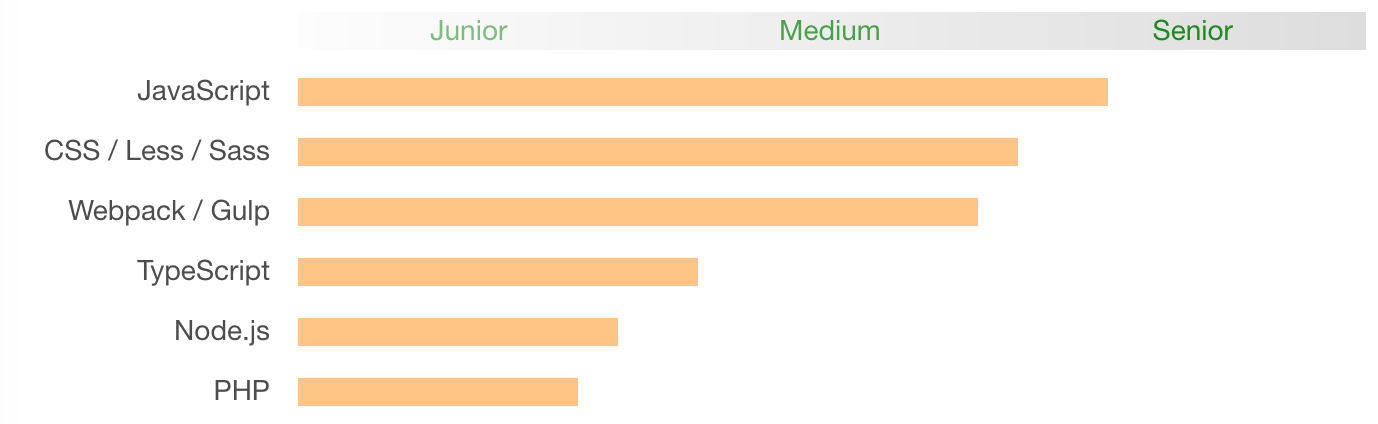
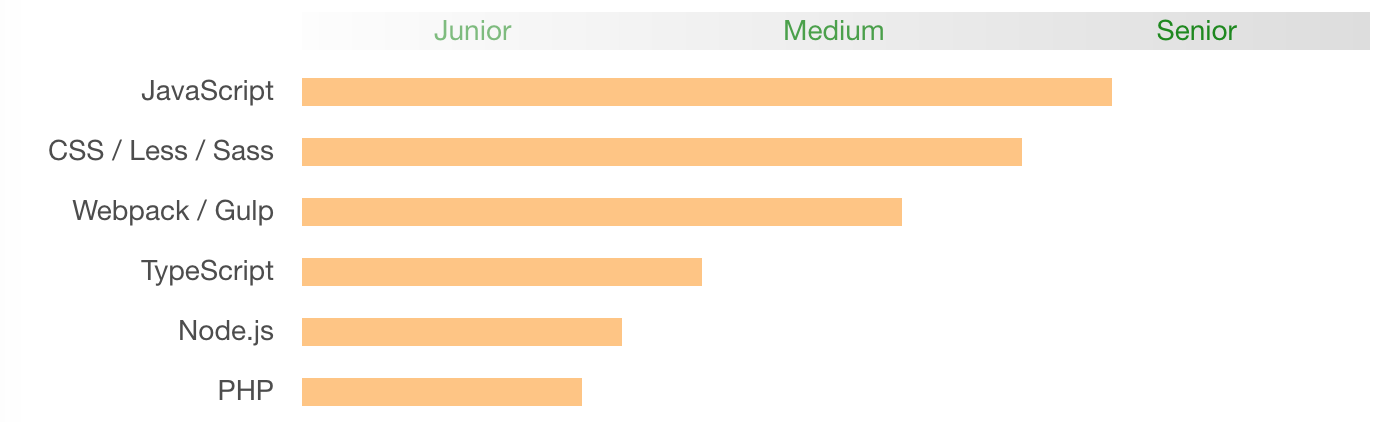
Update deg

diff --git a/re-assets/index.html b/re-assets/index.html
@@ -98,7 +98,7 @@ new MVVM({
 		items: [
 			{ title: 'JavaScript', degree: 81},
 			{ title: 'CSS / Less / Sass', degree: 72},
-			{ title: 'Webpack / Gulp', degree: 68},
+			{ title: 'Webpack / Gulp', degree: 60},
 			{ title: 'TypeScript', degree: 40},
 			{ title: 'Node.js', degree: 32},
 			{ title: 'PHP', degree: 28},
